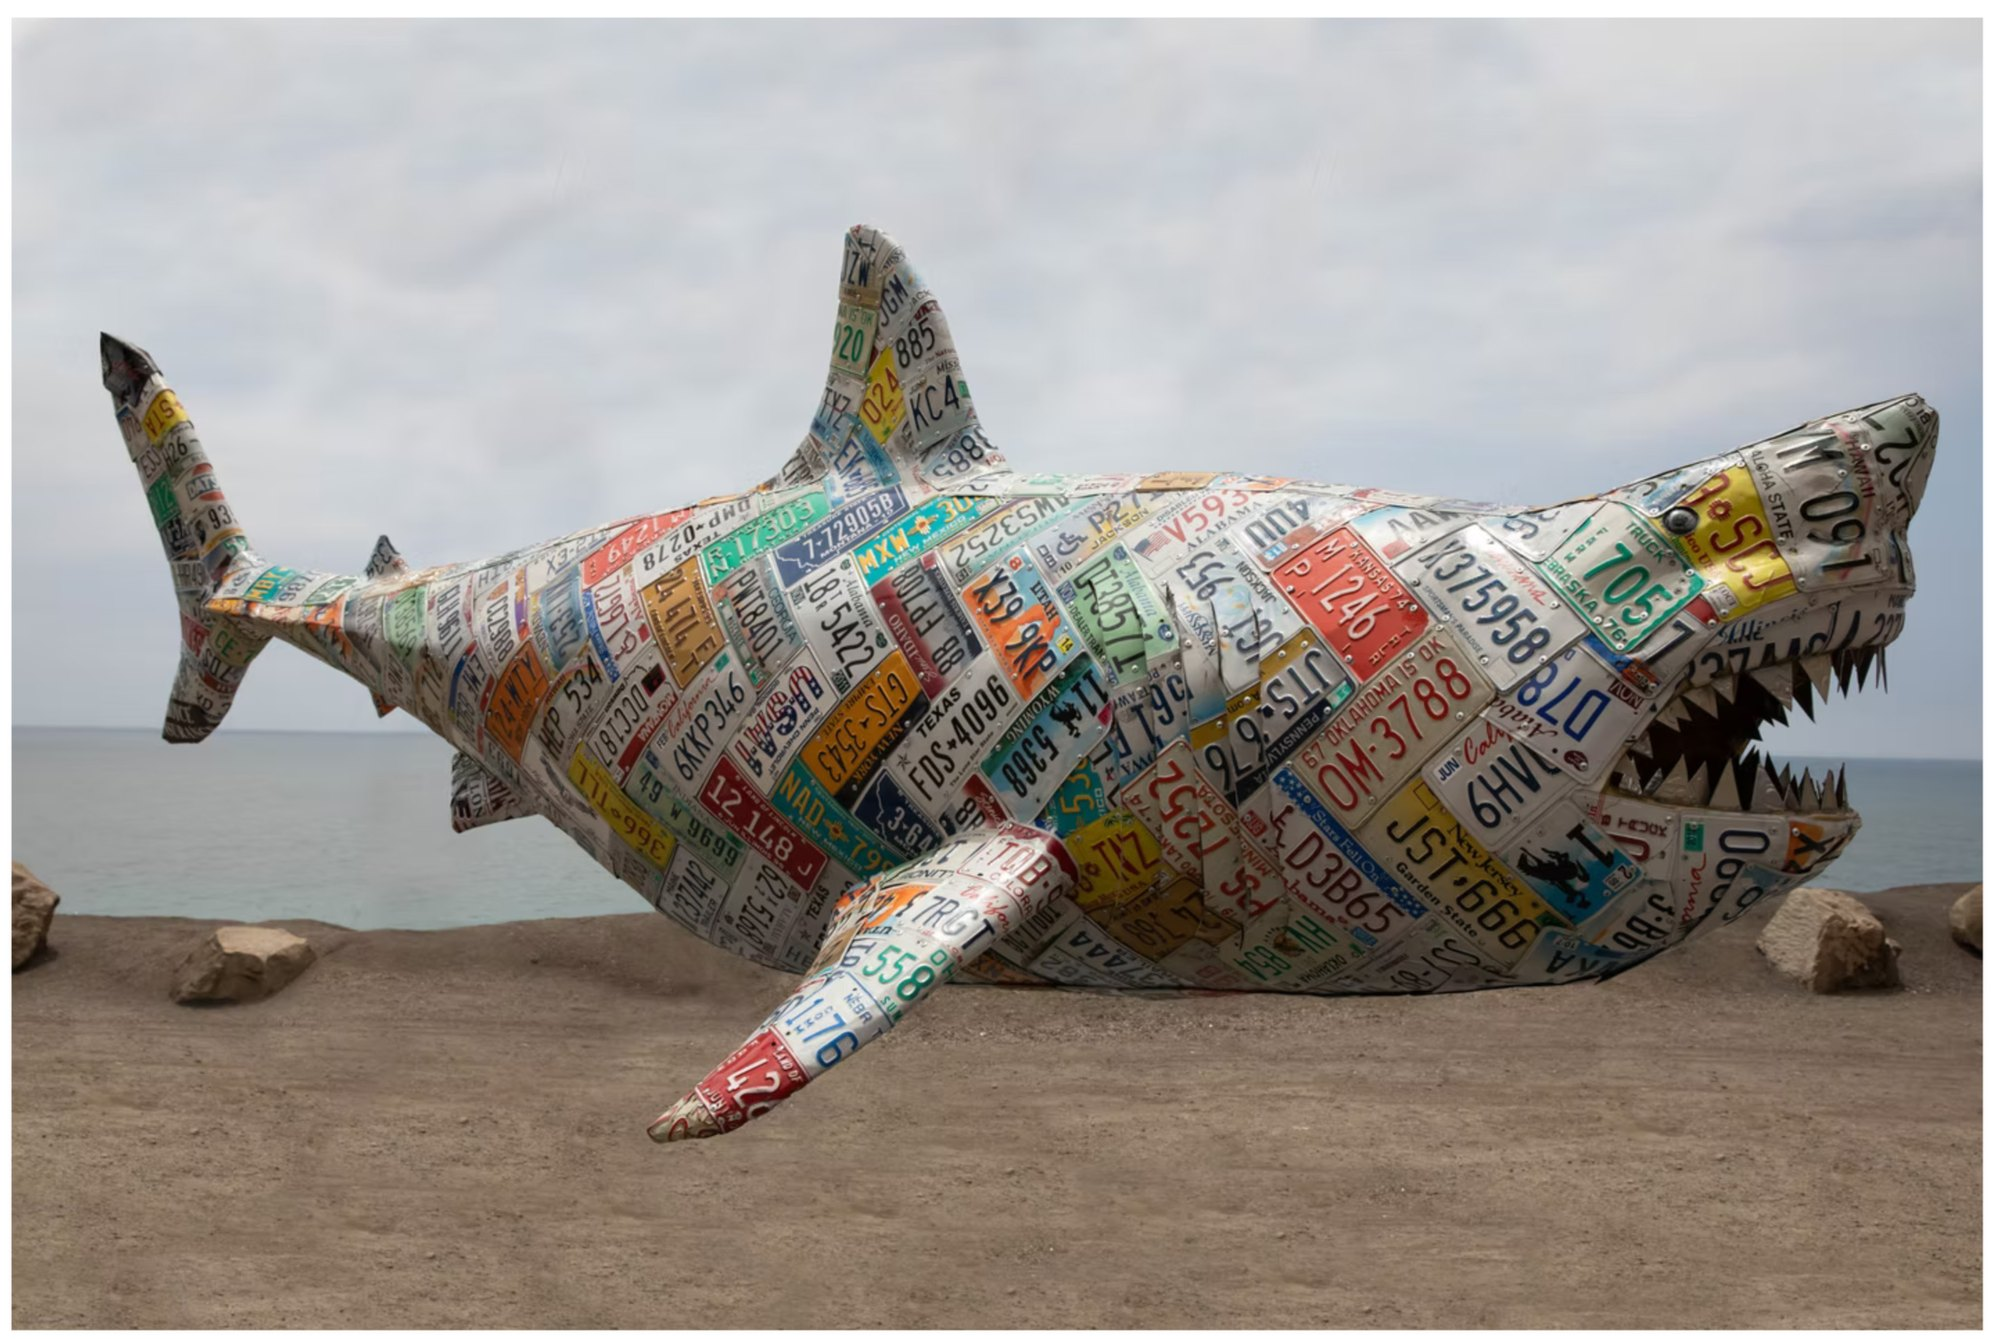
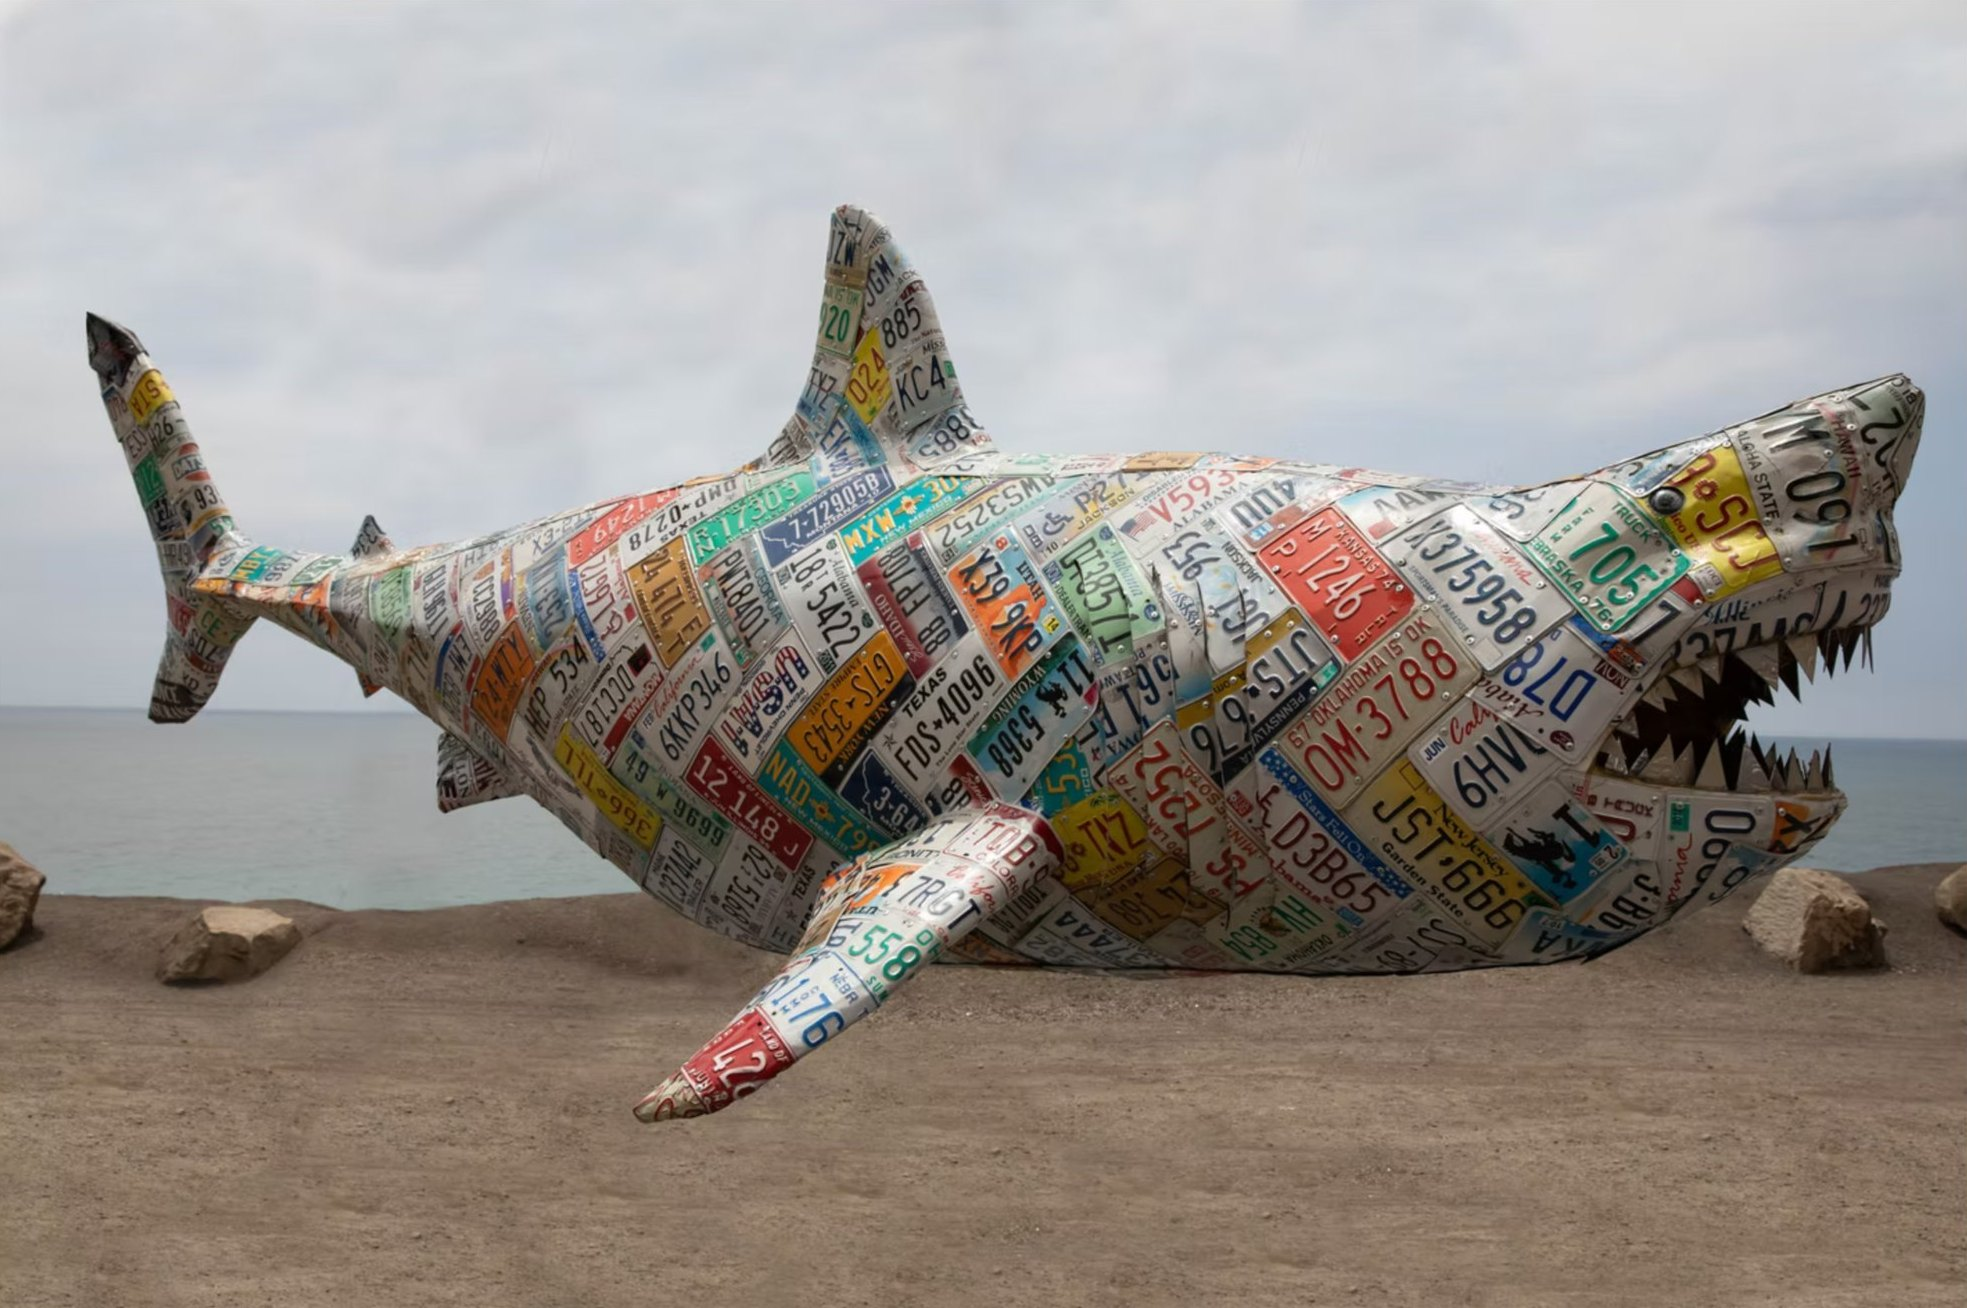
Risky: shark crop shows the head
Claude-Session: https://claude.ai/code/session_012U18n2jx8i57thyH5Nwtnb

Changed region(s): [[0.0, 0.0, 1.0, 1.0], [0.093, 0.6728, 0.1551, 0.7339], [0.062, 0.7339, 0.093, 0.7645]]

diff --git a/features/risky/index.html b/features/risky/index.html
@@ -286,7 +286,7 @@ footer p span{color:#505050}
     <div class="wrap wide g g4">
       <figure><span class="crop"><img loading="lazy" src="/features/risky/img/art5.jpg" alt="“Stay Gold” painted car hood hanging in a studio" style="aspect-ratio:3/4;object-position:50% 50%"></span></figure>
       <figure><span class="crop"><img loading="lazy" src="/features/risky/img/art6.jpg" alt="A neon artwork by Risk" style="aspect-ratio:3/4;object-position:50% 50%"></span></figure>
-      <figure><span class="crop"><img loading="lazy" src="/features/risky/img/art7.jpg" alt="A shark sculpture covered in licence plates" style="aspect-ratio:3/4;object-position:50% 50%"></span></figure>
+      <figure><span class="crop"><img loading="lazy" src="/features/risky/img/art7.jpg" alt="A shark sculpture covered in licence plates" style="aspect-ratio:3/4;object-position:100% 50%"></span></figure>
       <figure><span class="crop"><img loading="lazy" src="/features/risky/img/art8.jpg" alt="Kelly Graval with a licence-plate sculpture" style="aspect-ratio:3/4;object-position:50% 50%"></span></figure>
     </div>
 

diff --git a/_build/feature-template/risky-source.html b/_build/feature-template/risky-source.html
@@ -279,7 +279,7 @@ footer p span{color:#505050}
     <div class="wrap wide g g4">
       <figure><span class="crop"><img src="{{art5}}" alt="“Stay Gold” painted car hood hanging in a studio" style="aspect-ratio:3/4;object-position:50% 50%"></span></figure>
       <figure><span class="crop"><img src="{{art6}}" alt="A neon artwork by Risk" style="aspect-ratio:3/4;object-position:50% 50%"></span></figure>
-      <figure><span class="crop"><img src="{{art7}}" alt="A shark sculpture covered in licence plates" style="aspect-ratio:3/4;object-position:50% 50%"></span></figure>
+      <figure><span class="crop"><img src="{{art7}}" alt="A shark sculpture covered in licence plates" style="aspect-ratio:3/4;object-position:100% 50%"></span></figure>
       <figure><span class="crop"><img src="{{art8}}" alt="Kelly Graval with a licence-plate sculpture" style="aspect-ratio:3/4;object-position:50% 50%"></span></figure>
     </div>
 
